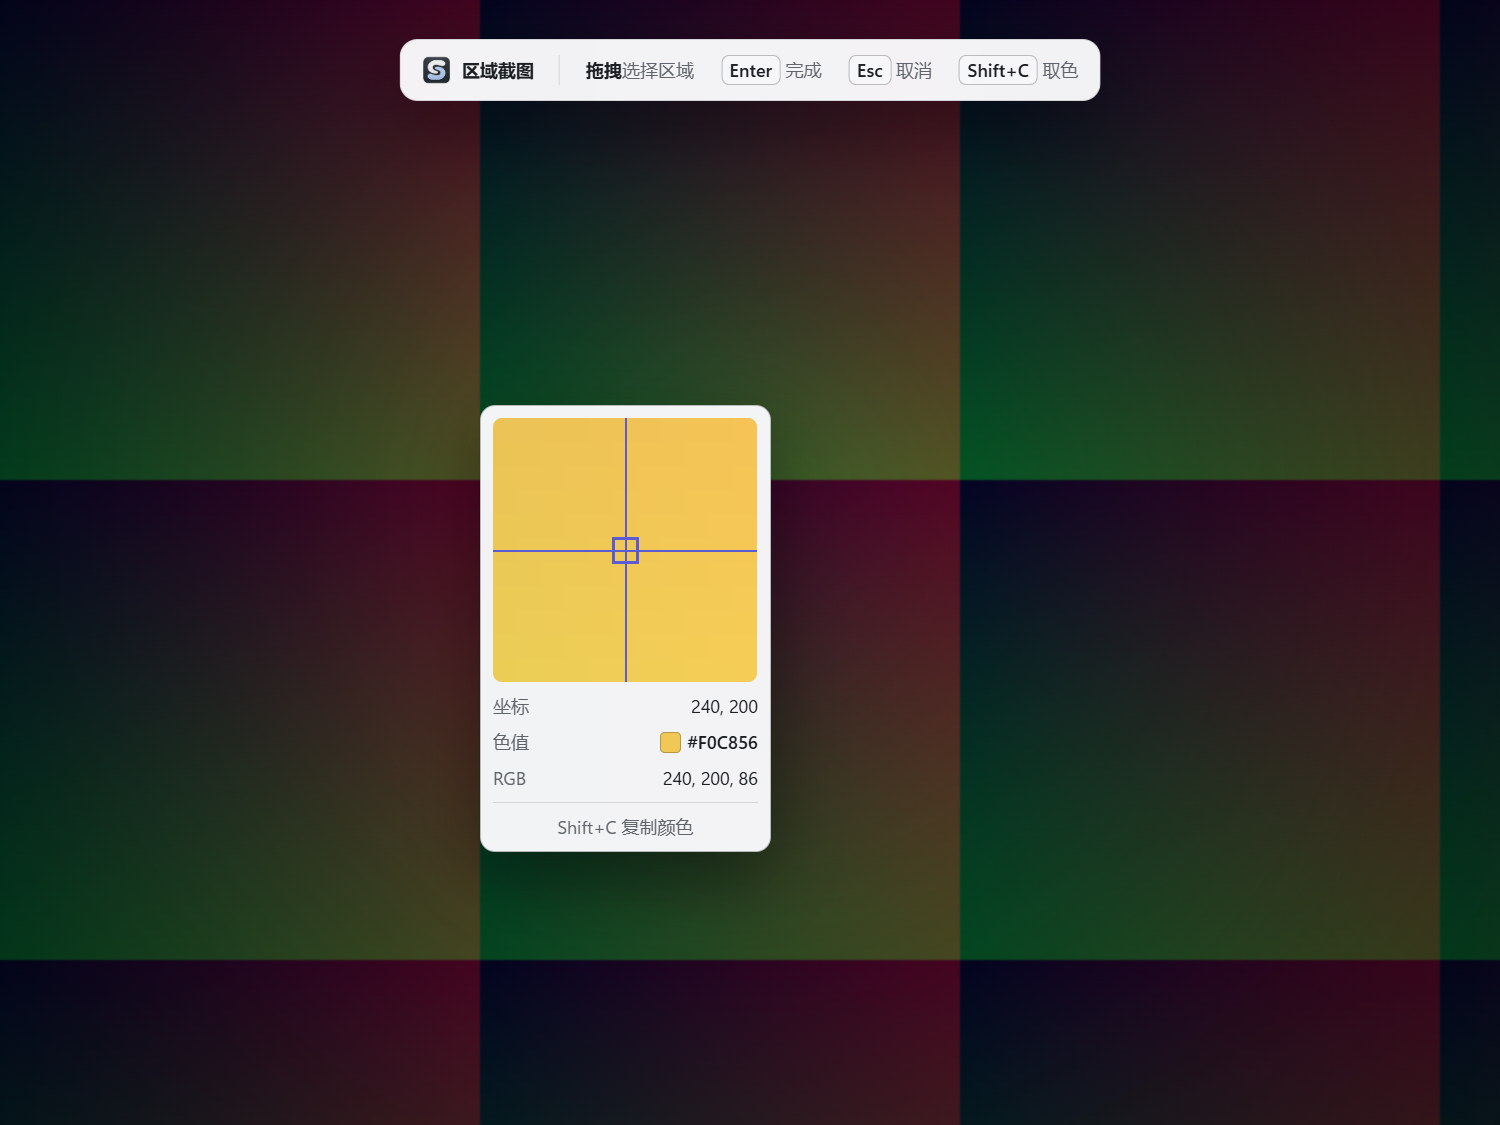
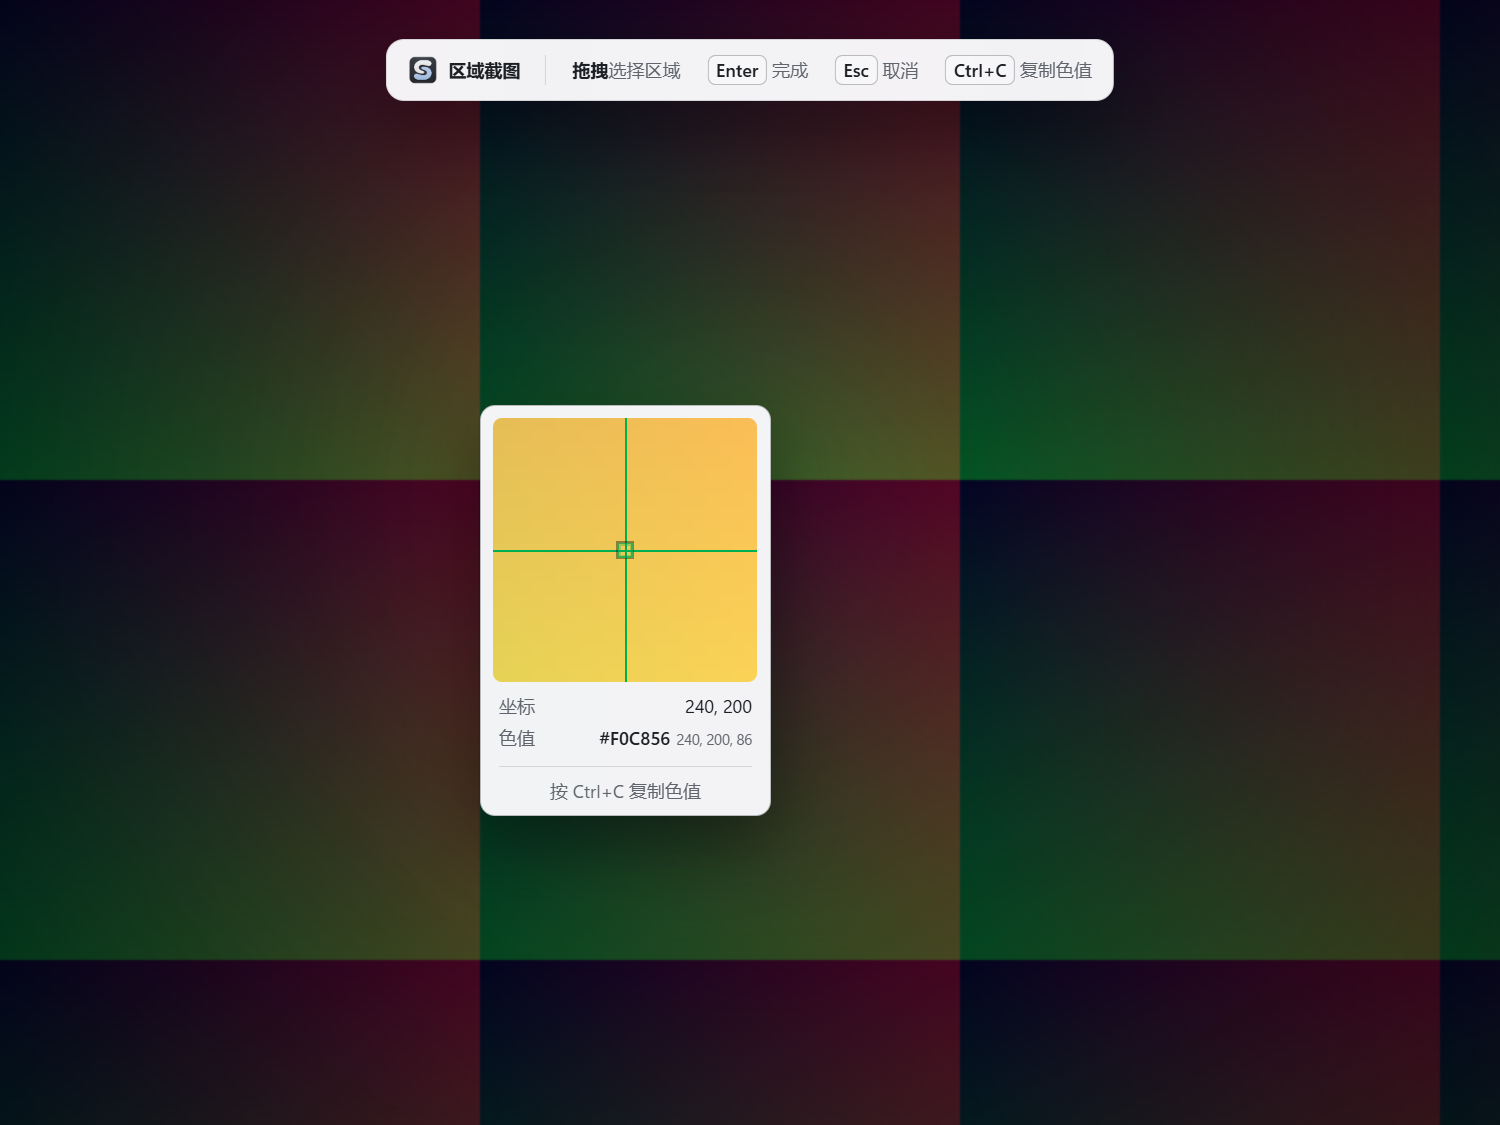
Update product docs and screenshots for 0.2.41

diff --git a/README.md b/README.md
@@ -3,7 +3,7 @@
   <h1>随序 SUIRA</h1>
   <p><strong>顺手接住，让工作继续。</strong></p>
   <p>一个快捷键，接住桌面上的截图、文字与灵感。<br>从收集、整理到下一步，让常用工具自然衔接。</p>
-  <p>Windows 11 x64 · 本地优先 · 当前版本 0.2.40</p>
+  <p>Windows 11 x64 · 本地优先 · 当前版本 0.2.41</p>
   <p><a href="https://github.com/huihui200739/suira-updates/releases/latest">下载最新版本</a> · <a href="#开始使用">开始使用</a> · <a href="CHANGELOG.md">版本更新</a> · <a href="https://github.com/huihui200739/suira-updates/issues">反馈问题</a></p>
 </div>
 
@@ -34,9 +34,9 @@
 
 **下一步，顺手接上。** 识别结果、文字工具、剪贴板和钉图／速记菜单都能接着提字、翻译、追加到速记或 Markdown、生成日程草稿、钉在桌面。日程先核对再保存，Markdown 斜杠菜单也能直接截图插入。
 
-**常用工具，继续补齐。** 设置中可编排并绑定组合动作；截图放大镜支持 HEX/RGB 取色，按 Shift+C 复制并保留颜色历史，提字时也会识别二维码。文本转换加入 JSON、繁简、全半角、提取、去重排序及编解码；搜索可直接计算、换算或输入 `fy` 翻译。汇率默认关闭，AI 总结、改写、解释和写回复只在点击后发送文字，并保留处理轨迹。
+**常用工具，继续补齐。** 设置中可编排并绑定组合动作；截图放大镜采用微信式绿色十字线取色，显示坐标、HEX 与 RGB，按 Ctrl+C 复制并保留颜色历史，提字时也会识别二维码。文本转换加入 JSON、繁简、全半角、提取、去重排序及编解码；搜索可直接计算、换算或输入 `fy` 翻译。汇率默认关闭，AI 总结、改写、解释和写回复只在点击后发送文字，并保留处理轨迹。
 
-<table><tr><td width="50%"><img src="docs/product/recipes.png" alt="组合动作编辑器"></td><td><img src="docs/product/color-picker.png" alt="截图放大镜显示 HEX 和 RGB"></td></tr></table>
+<table><tr><td width="50%"><img src="docs/product/recipes.png" alt="组合动作编辑器"></td><td><img src="docs/product/color-picker.png" alt="微信式截图取色放大镜：绿色十字线与坐标、色值"></td></tr></table>
 
 [新工具使用说明](docs/new-tools.md)
 
@@ -67,7 +67,7 @@
 
 ## 开始使用
 
-支持 **Windows 11 x64**，当前正式版 **0.2.40**。从 [最新版本](https://github.com/huihui200739/suira-updates/releases/latest) 下载 `Suira-0.2.40-x64.exe` 并安装；已有安装版可在悬浮板三点菜单选择 **检查更新 → 下载更新 → 保存草稿并重启更新**。覆盖更新保留本机内容、键位和设置。
+支持 **Windows 11 x64**，当前正式版 **0.2.41**。从 [最新版本](https://github.com/huihui200739/suira-updates/releases/latest) 下载 `Suira-0.2.41-x64.exe` 并安装；已有安装版可在悬浮板三点菜单选择 **检查更新 → 下载更新 → 保存草稿并重启更新**。覆盖更新保留本机内容、键位和设置。
 
 从托盘双击打开面板。全局快捷键默认关闭，可在设置中主动开启并调整冲突键位。
 

diff --git a/docs/new-tools.md b/docs/new-tools.md
@@ -2,7 +2,7 @@
 
 在 **设置 → 工具与动作** 新建组合动作：填写名称，选择 1–12 个步骤，调整顺序与失败处理，再选择预览、复制或加入任务匣。截图提字放在第一步；其他本地转换与翻译可以接在后面。保存后，在面板空键上右键选择 **组合动作**。组合动作处理当前选中文字或最近的适用内容，原始内容保留；每一步都能在内容的处理轨迹中查看。预览不执行最后的复制或入匣；包含翻译的组合动作在执行时会发送对应文字。
 
-进入截图后，无需按下鼠标，移动指针即可看到随行放大镜：十字线标出中心像素，同时显示源图坐标、颜色预览、HEX 和 RGB。按 **Shift+C** 复制 HEX，不完成截图；颜色进入剪贴板内容库，也会出现在设置中的最近 24 种取色历史。历史颜色可以再次点击复制。
+进入截图后，无需按下鼠标，移动指针即可看到随行放大镜：放大画面显示指针周围内容，微信式绿色十字线与中心像素框标出正在取色的位置；下方信息框显示源图坐标、HEX 色值和 RGB。按 **Ctrl+C** 复制 HEX，不完成截图（**Shift+C** 同样可用，按 **Enter** 才完成截图）；颜色进入剪贴板内容库，也会出现在设置中的最近 24 种取色历史。历史颜色可以再次点击复制。指针停在工具栏或结果框上时，Ctrl+C 仍是原来的「完成并复制」。
 
 框选一个二维码，点击 **提取文字**，会同时进行本地文字和二维码识别。即使没有可识别文字，也能得到二维码内容；其中的 HTTP/HTTPS 链接进入“下一步”。只有点击“打开二维码链接”才会打开网页，其他协议保持普通文字。
 

diff --git a/CHANGELOG.md b/CHANGELOG.md
@@ -1,5 +1,12 @@
 # 更新记录
 
+## 0.2.41 · 2026-11-07
+
+- 截图取色改为微信式：放大镜以约 8 倍显示指针周围画面，绿色十字线与中心像素框标出取样点；信息框精简为坐标、色值与「按 Ctrl+C 复制色值」，RGB 作为色值旁的次要信息。
+- **Ctrl+C** 复制当前色值且不结束截图，**Shift+C** 继续兼容；指针停在工具栏或结果框上时，Ctrl+C 仍是原来的「完成并复制」。复制后提示按 Enter 完成截图。
+- 放大镜贴边避让改用实际盒子尺寸，信息框行数或主题字号变化都不会溢出屏幕；颜色历史文案与快捷键提示同步。
+- 新增绿色十字线、两行读数、Ctrl+C 复制与贴边边界的真实 Electron 验收和静态断言。
+
 ## 0.2.40 · 2026-11-06
 
 - 修复取色放大镜在未框选和鼠标移动时不可见：截图一打开即可跟随指针，十字线标出中心像素，显示坐标、色块、HEX 与 RGB；Shift+C 复制颜色。

diff --git a/docs/product/README.md b/docs/product/README.md
@@ -1,4 +1,4 @@
-# 当前产品界面 · 0.2.40
+# 当前产品界面 · 0.2.41
 
 本轮更新取色预览、任务按钮与最近内容入口的展示图。最近内容默认收在顶栏，点击后展开，键盘区不再受卡片挤压。图片来自当前源码启动的真实 Electron 页面，使用独立的临时资料、虚构文档、日程与剪贴板，不读取用户正文或剪贴板，不注册系统快捷键。
 
@@ -6,7 +6,7 @@
 | --- | --- |
 | 随手面板 | [实时玻璃与 38 键](panel.png) |
 | 组合动作 | [编辑并绑定多个步骤](recipes.png) |
-| 取色器 | [放大镜显示 HEX 与 RGB](color-picker.png) |
+| 取色器 | [微信式绿色十字线、坐标与色值](color-picker.png) |
 | 最近内容与划词 | [普通面板](selection-panel.png) · [全屏面板](selection-fullscreen.png) |
 | 全屏键位与菜单 | [同一套玻璃控件](keyboard-menu.png) |
 | 应用启动台 | [本机应用搜索与原生图标](apps.png) |
